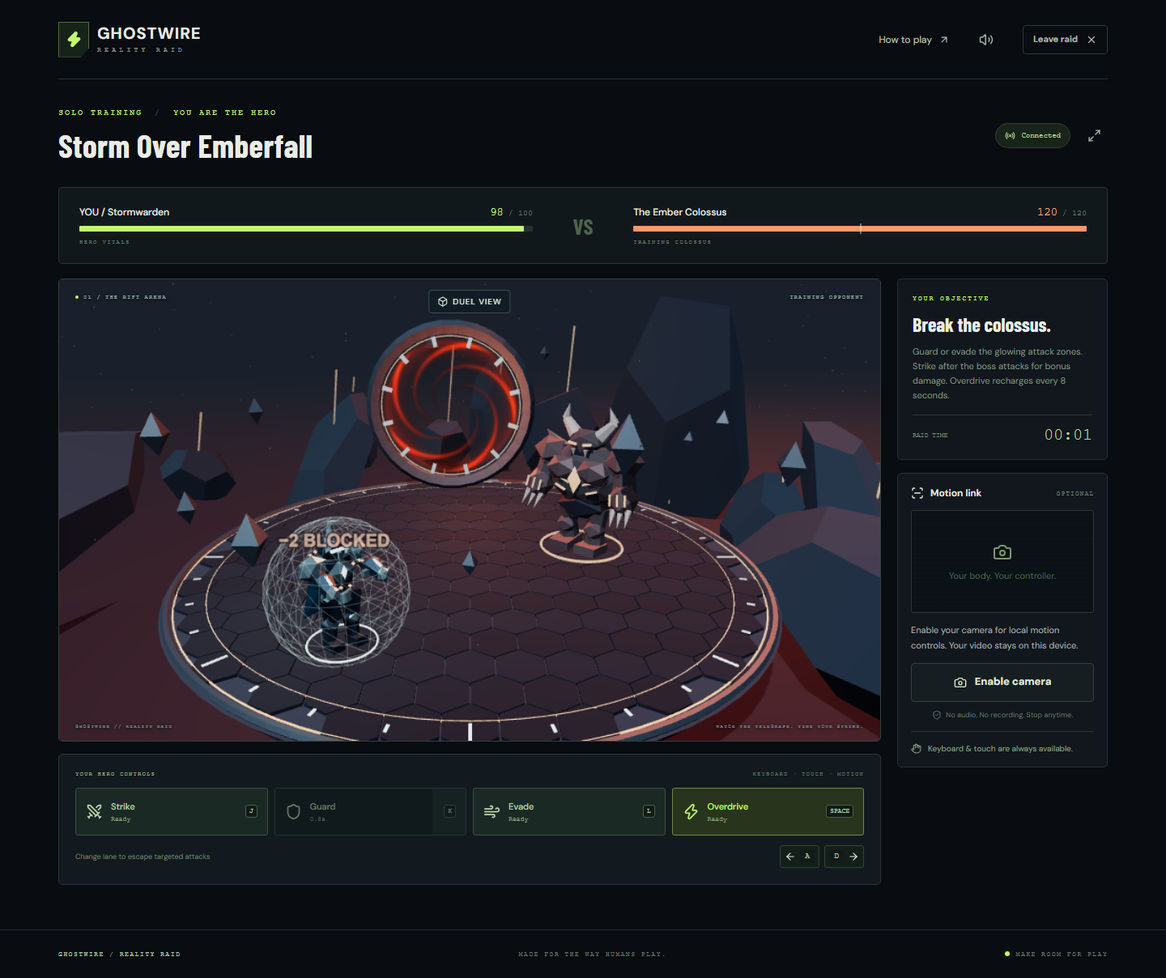
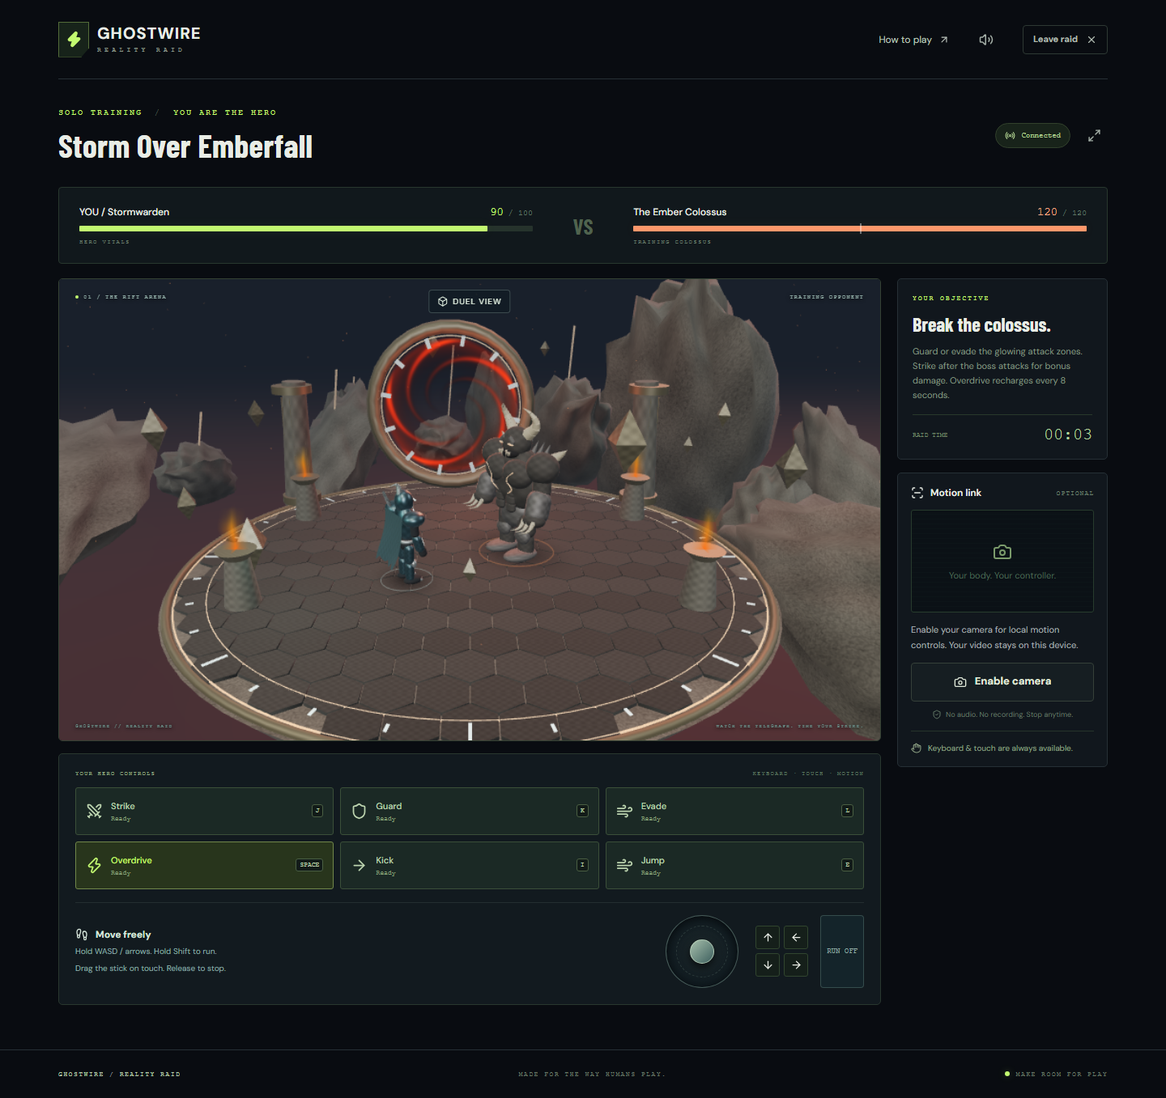
fix: preload combat effects and refine motion inputs

diff --git a/apps/client/src/game/BattleScene.ts b/apps/client/src/game/BattleScene.ts
@@ -49,9 +49,11 @@ export class BattleScene {
   private frames = 0;
   private sampleAt = performance.now();
   private lowDetail = false;
+  private shadersReady = false;
   private restoreListener = () => {
+    this.shadersReady = false;
     this.rebuildEnvironment();
-    this.onError(null);
+    this.prepareShaders();
   };
   private lossListener = (event: Event) => {
     event.preventDefault();
@@ -180,6 +182,7 @@ export class BattleScene {
     this.observer = new ResizeObserver(() => this.resize());
     this.observer.observe(mount);
     this.resize();
+    this.prepareShaders();
     this.renderer.setAnimationLoop(this.render);
   }
 
@@ -207,6 +210,47 @@ export class BattleScene {
     this.world.environmentIntensity = 0.65;
     room.dispose();
     generator.dispose();
+  }
+  private prepareShaders() {
+    const warmup = new THREE.Group();
+    const template: PendingAttack = {
+      id: -1,
+      role: 'hero',
+      action: 'special',
+      startedAt: 0,
+      resolvesAt: 1100,
+      damage: 0,
+      radius: 0.2,
+      target: { x: 0.5, y: 0.79 },
+    };
+    const templates = [
+      template,
+      { ...template, action: 'punch' as const },
+      { ...template, action: 'kick' as const },
+      ...this.state.spec.bossAttacks.map((attackId, index) => ({
+        ...template,
+        role: 'boss' as const,
+        action: index === 0 ? ('swipe' as const) : ('power' as const),
+        attackId,
+      })),
+    ];
+    for (const attack of templates) warmup.add(createSpell(this.state.spec, attack).root);
+    this.world.add(warmup);
+    this.hero.shield.visible = this.boss.shield.visible = true;
+    void this.renderer
+      .compileAsync(this.world, this.camera)
+      .then(() => {
+        if (this.disposed) return;
+        warmup.removeFromParent();
+        disposeObject(warmup);
+        this.hero.shield.visible = this.boss.shield.visible = false;
+        this.shadersReady = true;
+        this.onError(null);
+      })
+      .catch(() => {
+        if (!this.disposed)
+          this.onError('The 3D effects could not finish loading. Reload the raid to retry.');
+      });
   }
   private reduceDetail() {
     this.world.traverse((object) => {
@@ -512,7 +556,13 @@ export class BattleScene {
     }
   }
   private render = (frame: number) => {
-    if (this.disposed || document.hidden || this.renderer.getContext().isContextLost()) return;
+    if (
+      this.disposed ||
+      !this.shadersReady ||
+      document.hidden ||
+      this.renderer.getContext().isContextLost()
+    )
+      return;
     if (frame - this.previous > 500) {
       this.frames = 0;
       this.sampleAt = performance.now();
@@ -629,6 +679,11 @@ export class BattleScene {
       this.onReady();
     }
     this.renderer.domElement.dataset.heroWorld = `${s.fighters.hero.position.x.toFixed(2)},${s.fighters.hero.position.z.toFixed(2)}`;
+    this.renderer.domElement.dataset.activeEffect = s.pending
+      .map((a) =>
+        a.role === 'hero' && a.action === 'special' ? s.spec.heroPower : (a.attackId ?? a.action),
+      )
+      .join(',');
     const anchor = worldToScreen(this.camera, this.hero.root.position);
     this.renderer.domElement.dataset.heroAnchor = `${anchor.x.toFixed(3)},${anchor.y.toFixed(3)}`;
   };

diff --git a/apps/client/src/cv/gestures.ts b/apps/client/src/cv/gestures.ts
@@ -69,7 +69,9 @@ export class GestureClassifier {
         ).length;
         const pinch = dist(points[4], points[8]) / size;
         const speed = this.previous[9] ? Math.abs(points[9].x - this.previous[9].x) / dt / size : 0;
-        const indexUp = dist(points[8], points[0]) > dist(points[6], points[0]) * 1.2;
+        const indexUp =
+          dist(points[8], points[0]) > dist(points[6], points[0]) * 1.2 &&
+          points[8].y < points[6].y - size * 0.2;
         if (role === 'hero' && folded === 3 && indexUp) candidate = 'jump';
         else if (folded >= 3) candidate = 'guard';
         else if (pinch < 0.25) candidate = role === 'hero' ? 'special' : 'power';
@@ -95,7 +97,8 @@ export class GestureClassifier {
             { x: 0, y: 0, width: 0 },
           );
       } else {
-        const raised = lw.y < ls.y - width * 0.5 && rw.y < rs.y - width * 0.5;
+        const aboveHead = Math.min(y - width * 0.5, points[0].y - width * 0.15);
+        const raised = lw.y < aboveHead && rw.y < aboveHead;
         const guard =
           dist(lw, rs) < width * 1.15 &&
           dist(rw, ls) < width * 1.15 &&
@@ -106,8 +109,8 @@ export class GestureClassifier {
           : 0;
         const reach = Math.max(dist(lw, ls), dist(rw, rs)) / width;
         const oneRaised =
-          (lw.y < ls.y - width * 0.65 && rw.y > rs.y + width * 0.25) ||
-          (rw.y < rs.y - width * 0.65 && lw.y > ls.y + width * 0.25);
+          (lw.y < aboveHead && rw.y > rs.y + width * 0.25) ||
+          (rw.y < aboveHead && lw.y > ls.y + width * 0.25);
         const kneeUp = [
           [23, 25],
           [24, 26],

diff --git a/tests/e2e/game.spec.ts b/tests/e2e/game.spec.ts
@@ -67,6 +67,7 @@ test('training match: real controls, breach, victory, recap and rematch', async 
 test('two independent players share combat, camera, breach, reload recovery and rematch', async ({
   browser,
 }) => {
+  test.setTimeout(150000);
   const heroContext = await browser.newContext({ viewport: { width: 1440, height: 1000 } }),
     bossContext = await browser.newContext({
       viewport: { width: 390, height: 844 },
@@ -115,10 +116,10 @@ test('two independent players share combat, camera, breach, reload recovery and 
   await expect(boss.getByText('CAMERA ON', { exact: true })).toBeVisible();
   if (await boss.getByRole('checkbox', { name: 'Motion controls' }).isChecked())
     await boss.getByRole('checkbox', { name: 'Motion controls' }).uncheck();
-  for (let i = 0; i < 14; i++) {
+  for (let i = 0; i < 100; i++) {
     const strike = hero.getByRole('button', { name: 'Strike', exact: true });
-    if (await strike.isEnabled()) await strike.click();
-    await hero.waitForTimeout(480);
+    if (await strike.isEnabled()) await hero.keyboard.press('j');
+    await hero.waitForTimeout(120);
     if (await hero.getByText('02 / REALITY BREACH', { exact: true }).isVisible()) break;
   }
   await expect(hero.getByText('LIVE · BOSS CAMERA', { exact: true })).toBeVisible({

diff --git a/apps/client/src/components/MovementPad.tsx b/apps/client/src/components/MovementPad.tsx
@@ -1,4 +1,4 @@
-import { useRef, useState } from 'react';
+import { useEffect, useRef, useState } from 'react';
 import type { Movement } from '@ghostwire/shared';
 import { ArrowDown, ArrowLeft, ArrowRight, ArrowUp, Footprints } from 'lucide-react';
 
@@ -14,6 +14,14 @@ export function MovementPad({
   const [sprint, setSprint] = useState(false),
     [stick, setStick] = useState({ x: 0, z: 0 });
   const pointer = useRef<number | null>(null);
+  useEffect(() => {
+    if (disabled) {
+      pointer.current = null;
+      setStick({ x: 0, z: 0 });
+      setSprint(false);
+      onMove({ x: 0, z: 0, sprint: false });
+    }
+  }, [disabled, onMove]);
   const update = (element: HTMLDivElement, clientX: number, clientY: number) => {
     const rect = element.getBoundingClientRect();
     const rawX = (clientX - rect.left - rect.width / 2) / (rect.width * 0.35),
@@ -26,7 +34,7 @@ export function MovementPad({
   const release = () => {
     pointer.current = null;
     setStick({ x: 0, z: 0 });
-    onMove({ x: 0, z: 0, sprint: false });
+    onMove({ x: 0, z: 0, sprint });
   };
   return (
     <div className="free-movement">

diff --git a/tests/e2e/freedom.spec.ts b/tests/e2e/freedom.spec.ts
@@ -42,8 +42,11 @@ test('free walking, sprint, jumping, kicking, powers and exact instructions rema
   await expect(page.getByRole('button', { name: 'Kick', exact: true })).toBeDisabled();
   await page.waitForTimeout(450);
   await page.keyboard.press('Space');
+  await expect(canvas).toHaveAttribute('data-active-effect', 'thunder_strike');
+  await page
+    .getByTestId('game-stage')
+    .screenshot({ path: 'docs/screenshots/elemental-overdrive.png' });
   await expect(page.getByRole('button', { name: 'Overdrive', exact: true })).toBeDisabled();
-  await page.screenshot({ path: 'docs/screenshots/elemental-overdrive.png', fullPage: true });
   await expect(page.getByTestId('boss-hp')).not.toHaveText('120 / 120');
   await page.getByRole('button', { name: 'How to play', exact: true }).click();
   await expect(page.getByRole('dialog')).toContainText('Hero controls');

diff --git a/apps/client/src/game/useMovement.ts b/apps/client/src/game/useMovement.ts
@@ -73,7 +73,11 @@ export function useMovement(active: boolean, send: (movement: Movement) => void)
             ? touch.current
             : motion.current;
       const length = Math.max(1, Math.hypot(input.x, input.z));
-      const next = { x: input.x / length, z: input.z / length, sprint: input.sprint };
+      const next = {
+        x: input.x / length,
+        z: input.z / length,
+        sprint: input.sprint || held.has('Shift') || touch.current.sprint,
+      };
       const signature = JSON.stringify(next);
       // Active movement refreshes the server's short dead-man timeout.
       if (signature !== previous || next.x || next.z) callbacks.current(next);

diff --git a/apps/client/src/App.tsx b/apps/client/src/App.tsx
@@ -828,7 +828,7 @@ export default function App() {
                       state={state}
                       role={session.role}
                       onAction={onAction}
-                      connected={net.connected}
+                      connected={net.connected && !help}
                       onMove={movement.onTouch}
                     />
                   )}

diff --git a/README.md b/README.md
@@ -43,7 +43,7 @@ See [the exact controls, gestures, timings, and hand-mode alternatives](docs/CON
 | Both, arena          | Hold Shift / touch RUN | Step closer until calibrated shoulder width grows about one third   |
 | Boss                 | J: Swipe               | Extend one arm                                                      |
 | Boss                 | K: Guard               | Cross hands near chest                                              |
-| Boss                 | Space: Power           | Raise both hands above shoulders                                    |
+| Boss                 | Space: Power           | Hold both hands above the head for half a second                     |
 | Boss, hand-only mode | Swipe / Guard / Power  | Move open hand sideways / close fist / pinch thumb and index finger |
 
 Camera controls are optional and require a deliberate click. Hold a neutral pose for calibration, keep the relevant joints visible, and use small comfortable movements. A confidence drop suppresses gesture input; manual controls remain available. The boss can aim by moving a tracked wrist/palm or by touching/moving a pointer over the arena.
@@ -60,6 +60,8 @@ The colored ring is a telegraph: damage resolves when its timer finishes. A targ
 - A 50% HP cinematic breach, transparent Three.js layer, miniature 3D hero, mirrored cover-coordinate mapping, targeted hits, and explicit no-live-camera fallback labels.
 - Server-only OpenAI Responses API with Structured Outputs/Zod validation, bounded mechanics, 12-second timeout, refusal/error handling, and clearly identified curated fallbacks.
 - Procedural animated character art, three backgrounds, telegraphs, particles, hit feedback, synthetic sound, mute, reduced motion, fullscreen, and PNG recap download.
+- Original textured armor/stone, environment reflections, articulated limbs/cape, organic terrain, braziers, distinct elemental casts, and impact shockwaves. Slow/software renderers reduce detail; materials and powers preload before the opening countdown.
+- Full-screen **MISSION PASSED / MISSION FAILED** outcomes for each role, with stats, replay, and recap export.
 - Thirty-second disconnect pause and token-based resume, private role ownership, room expiry, request limits, input validation, and bounded queues.
 
 The phase-by-phase analysis is in [IMPLEMENTATION_PLAN.md](docs/IMPLEMENTATION_PLAN.md); implementation evidence and remaining checks are in [IMPLEMENTATION_LOG.md](docs/IMPLEMENTATION_LOG.md) and [TEST_PLAN.md](docs/TEST_PLAN.md).
@@ -108,7 +110,7 @@ npm run test:e2e
 
 Unit/integration tests exercise real Socket.IO sessions, combat, schemas, coordinate transforms, gesture fixtures, and AI success/failure branches. Browser tests exercise actual UI controls, both outcomes, two independent players, camera denial, synthetic live WebRTC, real-target damage, reload recovery, recap export, mobile layouts, and rematch.
 
-The earlier 3D release passed **37 unit/network checks and nine browser scenarios**. The free-movement/motion upgrade currently passes **46 unit/network checks**; its full browser regression is being finalized. The two-player camera/breach scenario was rerun successfully after the waiting-lobby refresh fix. See [the implementation record](docs/IMPLEMENTATION_LOG.md) for the current scope; the independent audit records an earlier milestone.
+The free-movement/motion upgrade passed **46 unit/network checks and all 10 browser scenarios**, including two complete two-player matches, free walking/running, jump/kick, animated Overdrive, live-video breach, both outcomes, rematch, and graphics recovery. Strict TypeScript and the production build also passed. Public HTTPS assets, invitations, shared combat, and media signaling were separately verified. See [the implementation record](docs/IMPLEMENTATION_LOG.md) for the current scope; the independent audit records an earlier milestone.
 
 Browser camera evidence uses Chromium's **synthetic camera**, not a person or a prerecorded demonstration. It establishes that media transport/compositing works locally; it does not establish real-body gesture accuracy or phone-network connectivity. Real lighting/device testing and a consenting two-person demo recording remain required before a hackathon submission. A live OpenAI response has not been verified without an API key. The Docker recipe is provided but not executed in this environment.
 

diff --git a/docs/TEST_PLAN.md b/docs/TEST_PLAN.md
@@ -2,6 +2,8 @@
 
 ## Automated checks
 
+Latest upgrade: **46 unit/network tests and all 10 browser scenarios passed**, along with strict TypeScript and the production build. The public HTTPS check passed assets, invites, shared combat, and media signaling. Physical rehearsal remains separate below.
+
 `npm test` covers the following independent risks:
 
 - Readiness and role gates, attack ownership, anti-replay sequences, cooldown enforcement, telegraph delay, defense timing, damage clamps, victory and defeat.
@@ -12,6 +14,8 @@
 - Neutral calibration, required landmark confidence, missing tracking, one punch per extension, held guard and duck.
 - Real socket connections: one boss slot, private-token resume, wrong-token denial, host-only starts, shared health, and signaling isolation.
 - AI success, no-key fallback, refusal, incomplete responses, schema-invalid output, unsupported actions and upstream errors. The API is mocked in these tests; these are not live model calls.
+- Normalized diagonal movement, speed and arena bounds, stale-input stopping, pause/result freezes, both roles moving, melee reach, locked world targets, jump timing, kick damage, two-axis live-feed movement, and renderer-readiness gating.
+- Expanded body gestures and hero hand mode: overhead charge, one-hand jump, visible knee kick, mirrored lean/depth movement, pinch, fist, and index-point safeguards.
 
 `npm run test:e2e` runs Chromium against the production build:
 
@@ -20,6 +24,7 @@
 3. Narrow mobile layout, a contrasting shadow encounter, denied-camera messaging, and continued manual gameplay.
 4. A passive hero genuinely loses; combat controls disappear at zero health.
 5. The Tempest 3D arena changes perspective while retaining authoritative world positions; a simulated WebGL context loss shows a recovery message, restoration resumes rendering, and leaving removes the canvas. The existing audit scenarios additionally cover camera cancellation/retry and two complete two-player matches with replay readiness.
+6. Real keyboard walking/running, released movement stopping, jump/kick buttons, a rendered elemental cast and resulting damage, and both roles' exact controls guide. The complete browser suite now contains ten scenarios.
 
 Screenshots are generated in `docs/screenshots/`. `breach-synthetic-camera.png` and camera-bearing boss screenshots contain Chromium's synthetic live source, not footage of a person. Traces and temporary browser recordings remain ignored in `test-results/`.
 
@@ -31,6 +36,8 @@ These checks cannot be replaced by synthetic landmarks or a local fake camera:
 | ---------------- | ---------------------------------------------------------------------------- | ---------------------------------------------------------------------- |
 | Hero gestures    | Calibrate in intended lighting; punch ten times at varied comfortable speeds | One deliberate extension produces one strike; neutral produces none    |
 | Defenses         | Guard, then duck during separate telegraphs                                  | Reduced damage and evasion at the expected times                       |
+| New motion       | One hand overhead, both overhead, then a knee above its hip; return neutral  | Jump, Overdrive, and Kick register distinctly without unwanted repeats |
+| Free movement    | Lean left/right, step closer/farther, release joystick and keyboard input    | Correct direction, bounded speed, reliable stopping and sprinting      |
 | Boss pose        | Raise, extend, and guard unpredictably                                       | Correct preauthored action follows without repeated accidental attacks |
 | Boss hand mode   | Open-palm calibration, lateral swipe, pinch, closed fist                     | Stable aim and predictable action classification                       |
 | Lost tracking    | Move wrists out of frame, then return                                        | Input pauses; feedback explains loss; tracking recovers                |

diff --git a/docs/DEMO_SCRIPT.md b/docs/DEMO_SCRIPT.md
@@ -7,9 +7,10 @@ Use the actual game with two consenting participants. The synthetic-camera scree
 1. Start the production build and open the same tested HTTPS origin on laptop and phone. If this is a local two-tab rehearsal, localhost works.
 2. Use a laptop for the hero and a stable phone for the boss. Give each participant room for small gestures; seated play is supported through manual controls.
 3. Create an encounter. AI generation requires a configured key and edited story text. If using a preset, say “curated encounter.”
-4. Scan the lobby QR, join as boss, enable the boss camera, and calibrate. Upper-body or hand-only mode can be selected.
+4. Scan the lobby QR, join as boss, enable the boss camera, and hold neutral for about 1.3 seconds to calibrate. Body gestures or One hand mode can be selected. Use [the exact controls guide](CONTROLS.md) during rehearsal.
 5. Enable the hero camera if demonstrating motion. Confirm the tracking status. Only the laptop should play audio.
-6. Run one rehearsal through Reality Breach. Check hand mapping at the left and right sides. If the camera fails, use the retry control and inspect HTTPS/TURN setup.
+6. Walk with WASD/arrows, run with Shift, and demonstrate E Jump and I Kick before combat. On touch use the joystick and RUN. Body movement uses lean left/right and closer/farther camera distance.
+7. Run one rehearsal through Reality Breach. Check hand mapping at the left and right sides, move the hero out of a locked warning circle, and finish at a Mission Passed/Failed screen. If the camera fails, use the retry control and inspect HTTPS/TURN setup.
 
 ## 60-second route
 
@@ -17,10 +18,10 @@ Use the actual game with two consenting participants. The synthetic-camera scree
 | ------ | --------------------------------------------- | -------------------------------------------------------- |
 | 0–7s   | Show story and encounter name                 | Configured AI encounter, or explicitly identified preset |
 | 7–14s  | Boss joins and raises/swipes an arm           | A second human drives accepted monster actions           |
-| 14–29s | Hero strikes, guards, and evades              | Health follows real authoritative inputs                 |
+| 14–29s | Hero walks/runs, jumps, kicks, and guards     | Free movement, articulated animations, real inputs       |
 | 29–36s | Cross 50% boss health                         | Automatic in-engine breach, not edited footage           |
 | 36–50s | Move boss hand and fire a targeted strike     | Live camera plus tracked target with real damage         |
-| 50–60s | Finish the boss with Overdrive and show recap | A genuine end-to-end match                               |
+| 50–60s | Cast Overdrive and show Mission Passed/Failed | Animated powers and a genuine end-to-end outcome         |
 
 “We turn a story into a playable encounter. I’m the hero, and my friend is the boss on their own device. Our movements trigger the same synchronized fight. At half health, the arena breaks into their actual camera feed. Their hand aims an attack in that room, and I have to survive it. This is GHOSTWIRE: Reality Raid.”
 

diff --git a/docs/IMPLEMENTATION_LOG.md b/docs/IMPLEMENTATION_LOG.md
@@ -32,12 +32,20 @@ Browser verification exposed a pre-existing lobby recovery issue: a refreshed ho
 - Keyboard input continues after a touch button receives focus. Result wording distinguishes the winner's role.
 - Used original procedural art and local fonts. MediaPipe models/WASM are downloaded once and served locally.
 
-## Remaining external validation
+## Free movement and motion expansion — 25 October 2026
+
+The subsequent upgrade replaces lane-bound play with authoritative world movement, sprinting, a touch joystick, input release/stale-input stopping, melee reach, locked world damage zones, jump evasion, kicks, and a pursuing training opponent. The live-video hero also moves in two dimensions. Calibrated body lean/depth, hands-up Overdrive, one-hand Jump, knee Kick, and hero hand-mode controls are documented in [CONTROLS.md](CONTROLS.md) and the in-game guide.
+
+The renderer now uses smoother articulated rigs, original grain/bump textures, environment reflections, organic stone, braziers, and separate thunder/flame/moon/claw/orb/wave effects. Outcome panels explicitly show Mission Passed/Failed for each player's role. Both views prepare before combat's countdown; shader preloading avoids first-cast compilation, and slower renderers reduce detail. Real-person gesture precision and physical-device rendering performance remain rehearsal checks.
+
+Final upgrade validation: **46 unit/network tests and all 10 browser scenarios passed**. Strict TypeScript and the production build passed. The browser suite exercised two complete human-role matches, walking/running and stopping, jump/kick, accepted elemental Overdrive and damage, exact instructions, synthetic live-video breach, real target hits, reload recovery, both outcomes, mobile controls, rematch, and graphics-context recovery. Public HTTPS assets, invites, shared combat, and media signaling also passed a separate check; TURN is not provisioned.
+
+## Earlier audit and remaining external validation
 
 An independent audit after the original build's completed handoff fixed camera
 control preferences resetting between lobby and battle, added pending capture
 cancellation, bounded result-screen reconnect recovery, and made invalid target
-acknowledgments explicit. The final build passes 30 unit/network tests and eight
+acknowledgments explicit. That earlier build passed 30 unit/network tests and eight
 browser scenarios; the expanded two-player scenarios were also rerun successfully.
 See [QA_AUDIT.md](QA_AUDIT.md) for evidence, scope and remaining manual checks.
 

diff --git a/docs/PHONE_TEST.md b/docs/PHONE_TEST.md
@@ -28,16 +28,16 @@ The link is a temporary public test address: people with the address can open th
 1. Start with the phone and laptop on the same Wi-Fi. Scan the lobby QR using your phone's camera and open the link in Chrome on Android or Safari on iPhone. Avoid a messaging app's embedded browser.
 2. Tap **Possess the boss**. Tap **Enable camera** and allow camera access. No microphone permission is requested.
 3. The narrow-screen default is **One hand** mode. Hold an open palm still until calibration completes. Move the open hand sideways to swipe; pinch thumb and index finger to charge; close your fist to guard.
-4. For upper-body gestures instead, select **Upper body**. Place the phone on a stable support and keep shoulders and wrists visible. Extend an arm to swipe, raise both hands to power attack, or cross hands to guard.
+4. For body gestures instead, select **Body gestures**. Place the phone on a stable support and keep shoulders and wrists visible. Extend an arm quickly to swipe, hold both hands above the head for half a second to power attack, or cross wrists near the chest for a quarter second to guard. The full hero/boss controls and cooldowns are in [CONTROLS.md](CONTROLS.md) and **How to play**.
 5. Keep **Motion controls** checked, then tap **I'm ready**. Keep the browser visible and the phone awake during play.
 
 ## Verify the signature moment
 
-- The hero can use J to strike, K to guard, L to evade, Space for Overdrive, and A/D to move. Touch controls work on both devices.
+- The hero uses WASD/arrows to walk, Shift to run, J to strike, I to kick, K to guard, L to evade, E to jump, and Space for Overdrive. Touch has the joystick, RUN, and all six actions. Move closer before melee attacks.
 - Check that a deliberate boss gesture triggers a monster attack on the laptop and updates the same health values on both devices.
 - Reduce the boss to **50% health**. The arena fractures and switches to the boss's live feed. Look for **LIVE · BOSS CAMERA** on the hero's screen.
 - In Reality Breach, move your hand to aim the ring at the miniature hero and trigger an attack. A target locks at the start of its wind-up. Touching the arena is also a way to aim.
-- Finish the fight, save a recap if wanted, and request a rematch. Camera video is never recorded by the game.
+- Finish at the full-screen **MISSION PASSED / MISSION FAILED** result, save a recap if wanted, and request a rematch. Camera video is never recorded by the game.
 
 ## If something fails
 
